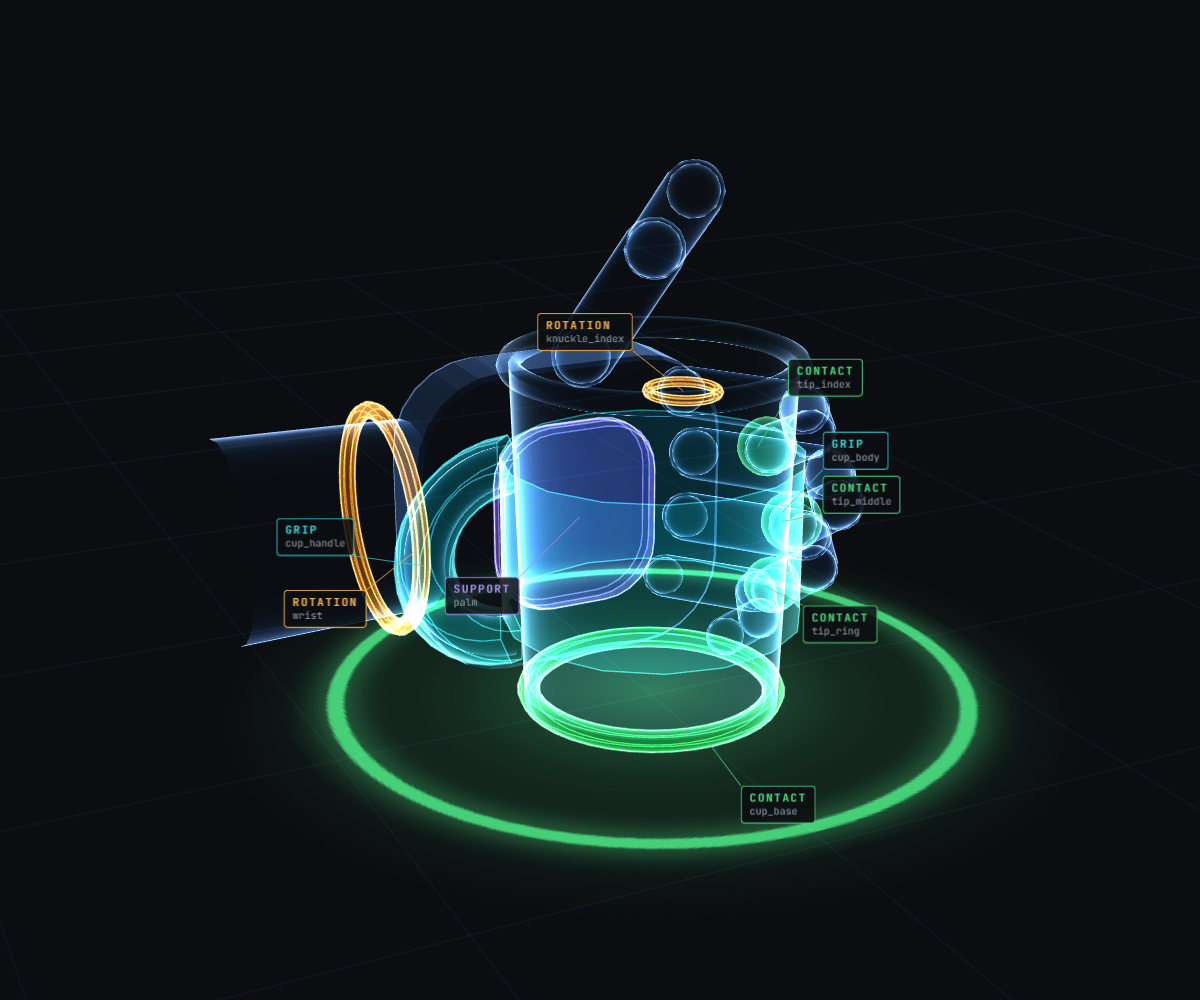
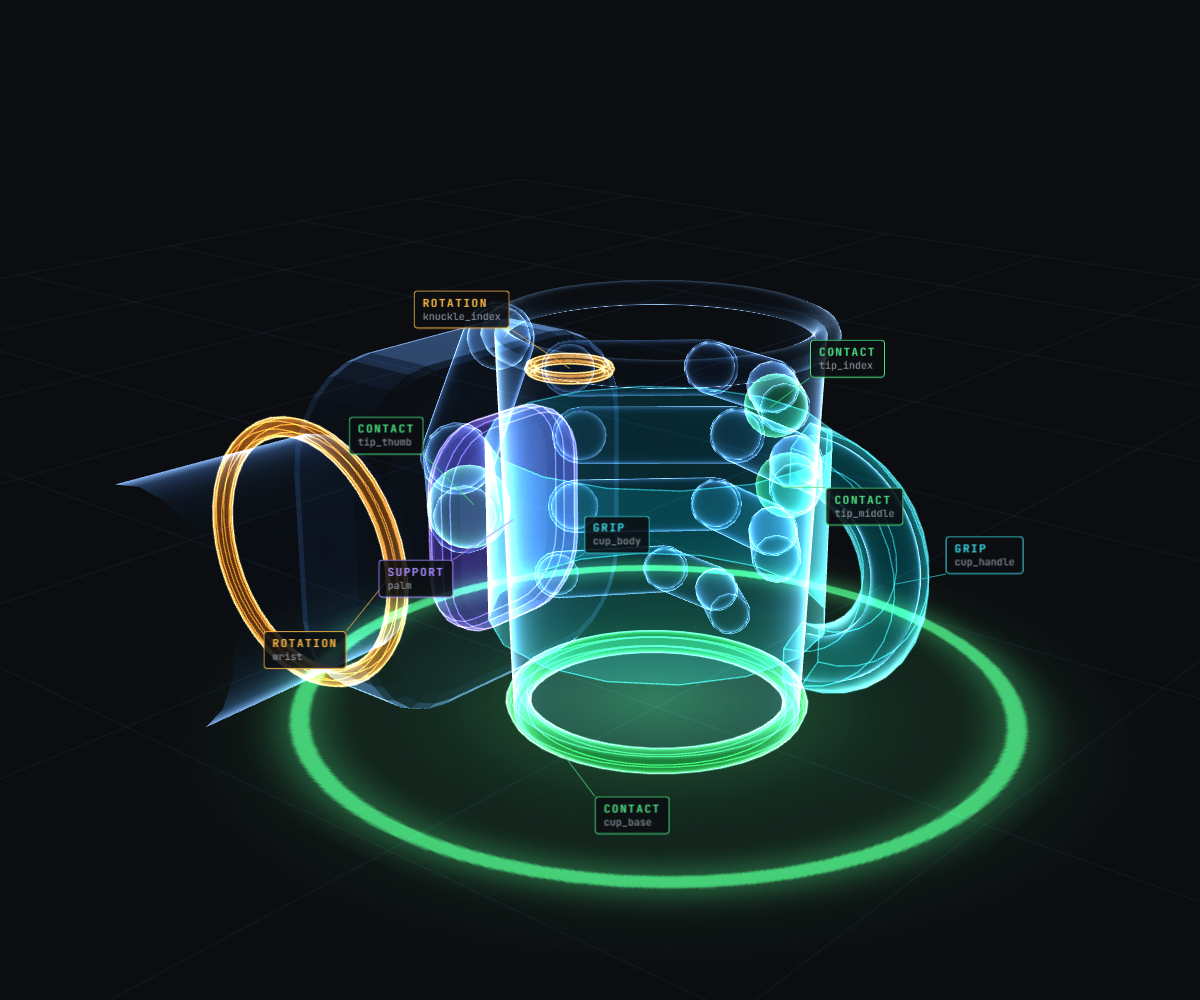
Grasp contact and clearance on the rendered bodies
- grasp-layout: tapered wall model, contact defined on the tip contact sphere, whole-chain clearance
  (joint balls, capsules, tip ball) sampled along the approach; solver stops before any body enters the wall
- placement found by tools/grasp-search.mjs: hand at (-68, 50, 4) mm, thumb holder (0.4, 0, -2.2)
- grasp.test.mjs checks contact within 1.5 mm, chain clearance for all five digits, opposition, curl agreement
- grasp fallback still regenerated

Changed region(s): [[0.0925, 0.155, 0.8942, 0.93]]

diff --git a/js/grasp-layout.js b/js/grasp-layout.js
@@ -1,9 +1,11 @@
 // grasp-layout.js: the hand-and-cup layout and the grasp solver, in pure math so `node js/grasp.test.mjs`
-// can check the same numbers the scene renders. The scene applies HAND matrix + position to the rig and
-// per-finger curls from solveGrasp(); the test checks that every labelled fingertip lands on the cup wall.
-import { FINGERS, THUMB, CURL_MAX, THUMB_MAX, fingerChainFK } from './hand.js';
+// can check the same numbers the scene renders. The scene applies the HAND matrix + position to the rig and
+// per-finger curls from solveGrasp(); the test checks contact and clearance of the rendered bodies.
+import { FINGERS, THUMB, CURL_MAX, THUMB_MAX, fingerChainPoints, SEG_R, JOINT_R, TIP_BALL_R, TIP_SPHERE_OFFSET, TIP_SPHERE_R } from './hand.js';
 
-export const CUP = { R: 0.042, H: 0.105 };
+// Cup body: CylinderGeometry(R at the rim, R*0.92 at the base, H). Wall radius depends on height.
+export const CUP = { R: 0.042, H: 0.105, taper: 0.92 };
+export const wallR = (y) => CUP.R * CUP.taper + (CUP.R - CUP.R * CUP.taper) * Math.max(0, Math.min(1, y / CUP.H));
 
 // The rig is a left hand (palm +z, fingers +y, thumb on -x). Placed on the cup's left side (-x), palm
 // facing the cup (+x), fingers pointing away from the camera (-z) to wrap the back, thumb on top wrapping
@@ -13,51 +15,93 @@ export const HAND_MATRIX = [
   0, 0, -1,   // local y
   1, 0, 0,    // local z
 ];
-export const HAND_POS = [-(CUP.R + 0.0105 + 0.006), 0.048, 0.004]; // palm bottom 5 mm above the floor
-export const THUMB_ROT = [0.4, 0, -2.3];    // holder Euler XYZ, found by tools search: thumb wraps the front wall; setPose adds -c*0.55 to y
+export const HAND_POS = [-0.068, 0.050, 0.004];    // from the placement search (README): contact with whole-chain clearance
+export const THUMB_ROT = [0.4, 0, -2.2];            // holder Euler XYZ; setPose adds -c*0.55 to y
 export const SPREAD = 0.4;
-export const OPEN_CURL = 0.08;               // curl at full release
-export const TIP_R = (def) => def.r * 1.05;  // the tip contact sphere radius used by the scene
+export const OPEN_CURL = 0.08;                      // curl at full release
+export const CLEARANCE_TOL = 0.001;                 // 1 mm of allowed body/wall overlap (tessellation slack)
+export const TIP_R = TIP_SPHERE_R;
 
-export function localToWorld(p) {
+export const DIGITS = ['index', 'middle', 'ring', 'pinky', 'thumb'];
+export const defOf = (id) => (id === 'thumb' ? THUMB : FINGERS.find((f) => f.id === id));
+
+export function localToWorld(p, pos = HAND_POS) {
   const m = HAND_MATRIX;
   return [
-    HAND_POS[0] + m[0] * p[0] + m[3] * p[1] + m[6] * p[2],
-    HAND_POS[1] + m[1] * p[0] + m[4] * p[1] + m[7] * p[2],
-    HAND_POS[2] + m[2] * p[0] + m[5] * p[1] + m[8] * p[2],
+    pos[0] + m[0] * p[0] + m[3] * p[1] + m[6] * p[2],
+    pos[1] + m[1] * p[0] + m[4] * p[1] + m[7] * p[2],
+    pos[2] + m[2] * p[0] + m[5] * p[1] + m[8] * p[2],
   ];
 }
+const add = (a, b) => [a[0] + b[0], a[1] + b[1], a[2] + b[2]];
+const applyR = (R, v) => [R[0] * v[0] + R[1] * v[1] + R[2] * v[2], R[3] * v[0] + R[4] * v[1] + R[5] * v[2], R[6] * v[0] + R[7] * v[1] + R[8] * v[2]];
 
-// World position of a finger tip anchor at curl c (fingers: holder rotation z = spread*(1-c)*SPREAD;
-// thumb: holder Euler THUMB_ROT with y = -c*0.55, matching hand.js setPose).
-export function tipWorld(id, c) {
+function chain(id, c, thumbRot = THUMB_ROT) {
   const isThumb = id === 'thumb';
-  const def = isThumb ? THUMB : FINGERS.find((f) => f.id === id);
-  const holder = isThumb ? [THUMB_ROT[0], -c * 0.55, THUMB_ROT[2]] : [0, 0, def.spread * (1 - c) * SPREAD];
+  const def = defOf(id);
+  const holder = isThumb ? [thumbRot[0], -c * 0.55, thumbRot[2]] : [0, 0, def.spread * (1 - c) * SPREAD];
   const angles = (isThumb ? THUMB_MAX : CURL_MAX).map((a) => a * c);
-  const local = fingerChainFK(def, holder, angles, [0, 0, 0.004]);
-  return localToWorld(local);
+  return { def, ...fingerChainPoints(def, holder, angles) };
 }
 
-// For each finger, the smallest curl at which the tip touches the cup wall from outside
-// (radial distance == R + tip radius) at a height inside the cup's wall.
-export function solveGrasp(steps = 600) {
+// World position of the label anchor ([0, tipLen, 0.004] in the last segment frame).
+export function tipWorld(id, c, pos = HAND_POS, thumbRot = THUMB_ROT) {
+  const { def, pts, last } = chain(id, c, thumbRot);
+  const base = pts[pts.length - 1];
+  return localToWorld(add(base, applyR(last, [0, def.segs[def.segs.length - 1], 0.004])), pos);
+}
+// World centre of the rendered contact sphere at the tip, and its radius.
+export function tipSphereWorld(id, c, pos = HAND_POS, thumbRot = THUMB_ROT) {
+  const { def, pts, last } = chain(id, c, thumbRot);
+  const base = pts[pts.length - 1];
+  return { center: localToWorld(add(base, applyR(last, TIP_SPHERE_OFFSET(def))), pos), r: TIP_SPHERE_R(def) };
+}
+// Signed clearance (metres) between a sphere and the cup wall: positive = outside, negative = overlapping.
+// Only heights inside the cup body count; above the rim there is no wall.
+function sphereClearance(center, r) {
+  const [x, y, z] = center;
+  if (y > CUP.H + r || y < -r) return Infinity;
+  return Math.hypot(x, z) - wallR(y) - r;
+}
+// Worst clearance over every rendered body of one digit: joint balls, capsule axes (sampled), tip ball, contact sphere.
+export function chainClearance(id, c, pos = HAND_POS, thumbRot = THUMB_ROT) {
+  const { def, pts, rots, tip } = chain(id, c, thumbRot);
+  let worst = Infinity;
+  for (let i = 0; i < pts.length; i++) {
+    worst = Math.min(worst, sphereClearance(localToWorld(pts[i], pos), JOINT_R(def)));
+    const end = i + 1 < pts.length ? pts[i + 1] : tip;
+    for (let k = 1; k <= 8; k++) {
+      const t = k / 8;
+      const p = pts[i].map((v, j) => v + (end[j] - v) * t);
+      worst = Math.min(worst, sphereClearance(localToWorld(p, pos), SEG_R(def, i)));
+    }
+  }
+  worst = Math.min(worst, sphereClearance(localToWorld(tip, pos), TIP_BALL_R(def)));
+  const s = tipSphereWorld(id, c, pos, thumbRot);
+  worst = Math.min(worst, sphereClearance(s.center, s.r));
+  return worst;
+}
+
+// For each digit, the smallest curl at which the contact sphere touches the wall from outside (within
+// CLEARANCE_TOL) at a usable height, with the whole chain clear of the wall all the way in.
+// Digits that cannot reach stop at the last curl where the chain is still clear.
+export function solveGrasp(pos = HAND_POS, thumbRot = THUMB_ROT, steps = 600) {
   const out = {};
-  for (const id of ['index', 'middle', 'ring', 'pinky', 'thumb']) {
-    const def = id === 'thumb' ? THUMB : FINGERS.find((f) => f.id === id);
-    const target = CUP.R + TIP_R(def);
-    let found = null, lastSafe = 0, minRadial = Infinity;
+  for (const id of DIGITS) {
+    let found = null, lastSafe = 0, minGap = Infinity, worstOnPath = Infinity;
     for (let i = 0; i <= steps; i++) {
       const c = i / steps;
-      const [x, y, z] = tipWorld(id, c);
-      const radial = Math.hypot(x, z);
-      minRadial = Math.min(minRadial, radial);
-      if (radial <= target && y > 0.008 && y < CUP.H - 0.006) { found = c; break; }
-      if (radial < target) break;   // about to enter the wall outside the usable height: stop here
+      const clear = chainClearance(id, c, pos, thumbRot);
+      if (clear < -CLEARANCE_TOL) break;           // a body would enter the wall: stop before it
+      worstOnPath = Math.min(worstOnPath, clear);
+      const s = tipSphereWorld(id, c, pos, thumbRot);
+      const gap = sphereClearance(s.center, s.r);
+      minGap = Math.min(minGap, gap);
+      const y = s.center[1];
+      if (gap <= CLEARANCE_TOL && y > 0.008 && y < CUP.H - 0.006) { found = c; break; }
       lastSafe = c;
     }
-    // Unreachable fingers stop at the last curl that keeps the tip outside the wall.
-    out[id] = { c: found ?? lastSafe, reached: found !== null, minRadial };
+    out[id] = { c: found ?? lastSafe, reached: found !== null, minGap, worstOnPath };
   }
   return out;
 }

diff --git a/js/hand.js b/js/hand.js
@@ -25,8 +25,32 @@ function mul(A, B) { const o = new Array(9); for (let r = 0; r < 3; r++) for (le
 function apply(M, v) { return [M[0] * v[0] + M[1] * v[1] + M[2] * v[2], M[3] * v[0] + M[4] * v[1] + M[5] * v[2], M[6] * v[0] + M[7] * v[1] + M[8] * v[2]]; }
 const eulerXYZ = ([x, y, z]) => mul(mul(rotX(x), rotY(y)), rotZ(z));
 
-// Hand-local position of a point `tipOffset` in the last segment's frame, for a finger definition,
-// holder Euler [x,y,z] and per-segment curl angles (radians about the segment's local x).
+// Radii the rig renders with (see buildHand): capsule per segment, joint ball at each segment start, tip ball.
+export const SEG_R = (def, i) => def.r * (1 - i * 0.07);
+export const JOINT_R = (def) => def.r * 0.88;
+export const TIP_BALL_R = (def) => def.r * 0.8;
+// Where the contact patch sphere sits in the last segment's frame, and its radius (see scenes.js handPatches).
+export const TIP_SPHERE_OFFSET = (def) => [0, def.segs[def.segs.length - 1] - 0.002, 0.002];
+export const TIP_SPHERE_R = (def) => def.r * 1.05;
+
+// Hand-local joint positions [base, joint1, ..., tip] plus the rotation of each segment, for a finger
+// definition, holder Euler [x,y,z] and per-segment curl angles (radians about the segment's local x).
+export function fingerChainPoints(def, holderEuler, angles) {
+  let R = eulerXYZ(holderEuler);
+  let p = [...def.base];
+  let prevLen = 0;
+  const pts = [], rots = [];
+  for (let i = 0; i < def.segs.length; i++) {
+    p = p.map((v, k) => v + apply(R, [0, prevLen, 0])[k]);
+    R = mul(R, rotX(angles[i] || 0));
+    pts.push(p); rots.push(R);
+    prevLen = def.segs[i];
+  }
+  const tip = p.map((v, k) => v + apply(R, [0, prevLen, 0])[k]);
+  return { pts, rots, tip, last: R };
+}
+
+// Hand-local position of a point `tipOffset` in the last segment's frame.
 export function fingerChainFK(def, holderEuler, angles, tipOffset = [0, 0, 0]) {
   let R = eulerXYZ(holderEuler);
   let p = [...def.base];

diff --git a/README.md b/README.md
@@ -26,7 +26,7 @@ node js/grasp.test.mjs
 - Tokens and layout: `css/site.css`.
 - Hologram engine: `js/holo.js` (three.js loading, fallbacks, resize, visibility, drag, hover, labels, status hook), shared by three scenes.
 - Hero scene: `js/hero.js` on `js/bike.js` (bicycle geometry and the ten action surfaces).
-- Hand scenes: `js/scenes.js` on `js/hand.js` (a hand opening from a fist in the layers section; a hand grasping a cup in the two-standards section). The grasp layout and finger curls come from `js/grasp-layout.js`, solved so every labelled fingertip lands on the cup wall; `js/grasp.test.mjs` checks that with the same forward kinematics. Surface colours live in `js/colors.js`.
+- Hand scenes: `js/scenes.js` on `js/hand.js` (a hand opening from a fist in the layers section; a hand grasping a cup in the two-standards section). The grasp layout and finger curls come from `js/grasp-layout.js`: a pure forward-kinematics model of the rig, a solver that closes each digit until its rendered contact sphere touches the tapered cup wall while every capsule and joint ball stays outside it, and `js/grasp.test.mjs` asserting exactly that. `node tools/grasp-search.mjs` re-searches the hand position and thumb angles if the hand or cup geometry changes. Surface colours live in `js/colors.js`.
 - Concept clip: `assets/hand-demo.mp4` (Higgsfield render, captioned as a concept, not pipeline output).
 - Fallback stills for the hand scenes come from `tools/capture.html?scene=hand|grasp` rendered headless (see below).
 - Demo clip: `assets/contact-demo.mp4` + `assets/contact-demo-poster.jpg`. Replace both to swap the demo; keep the file names.
